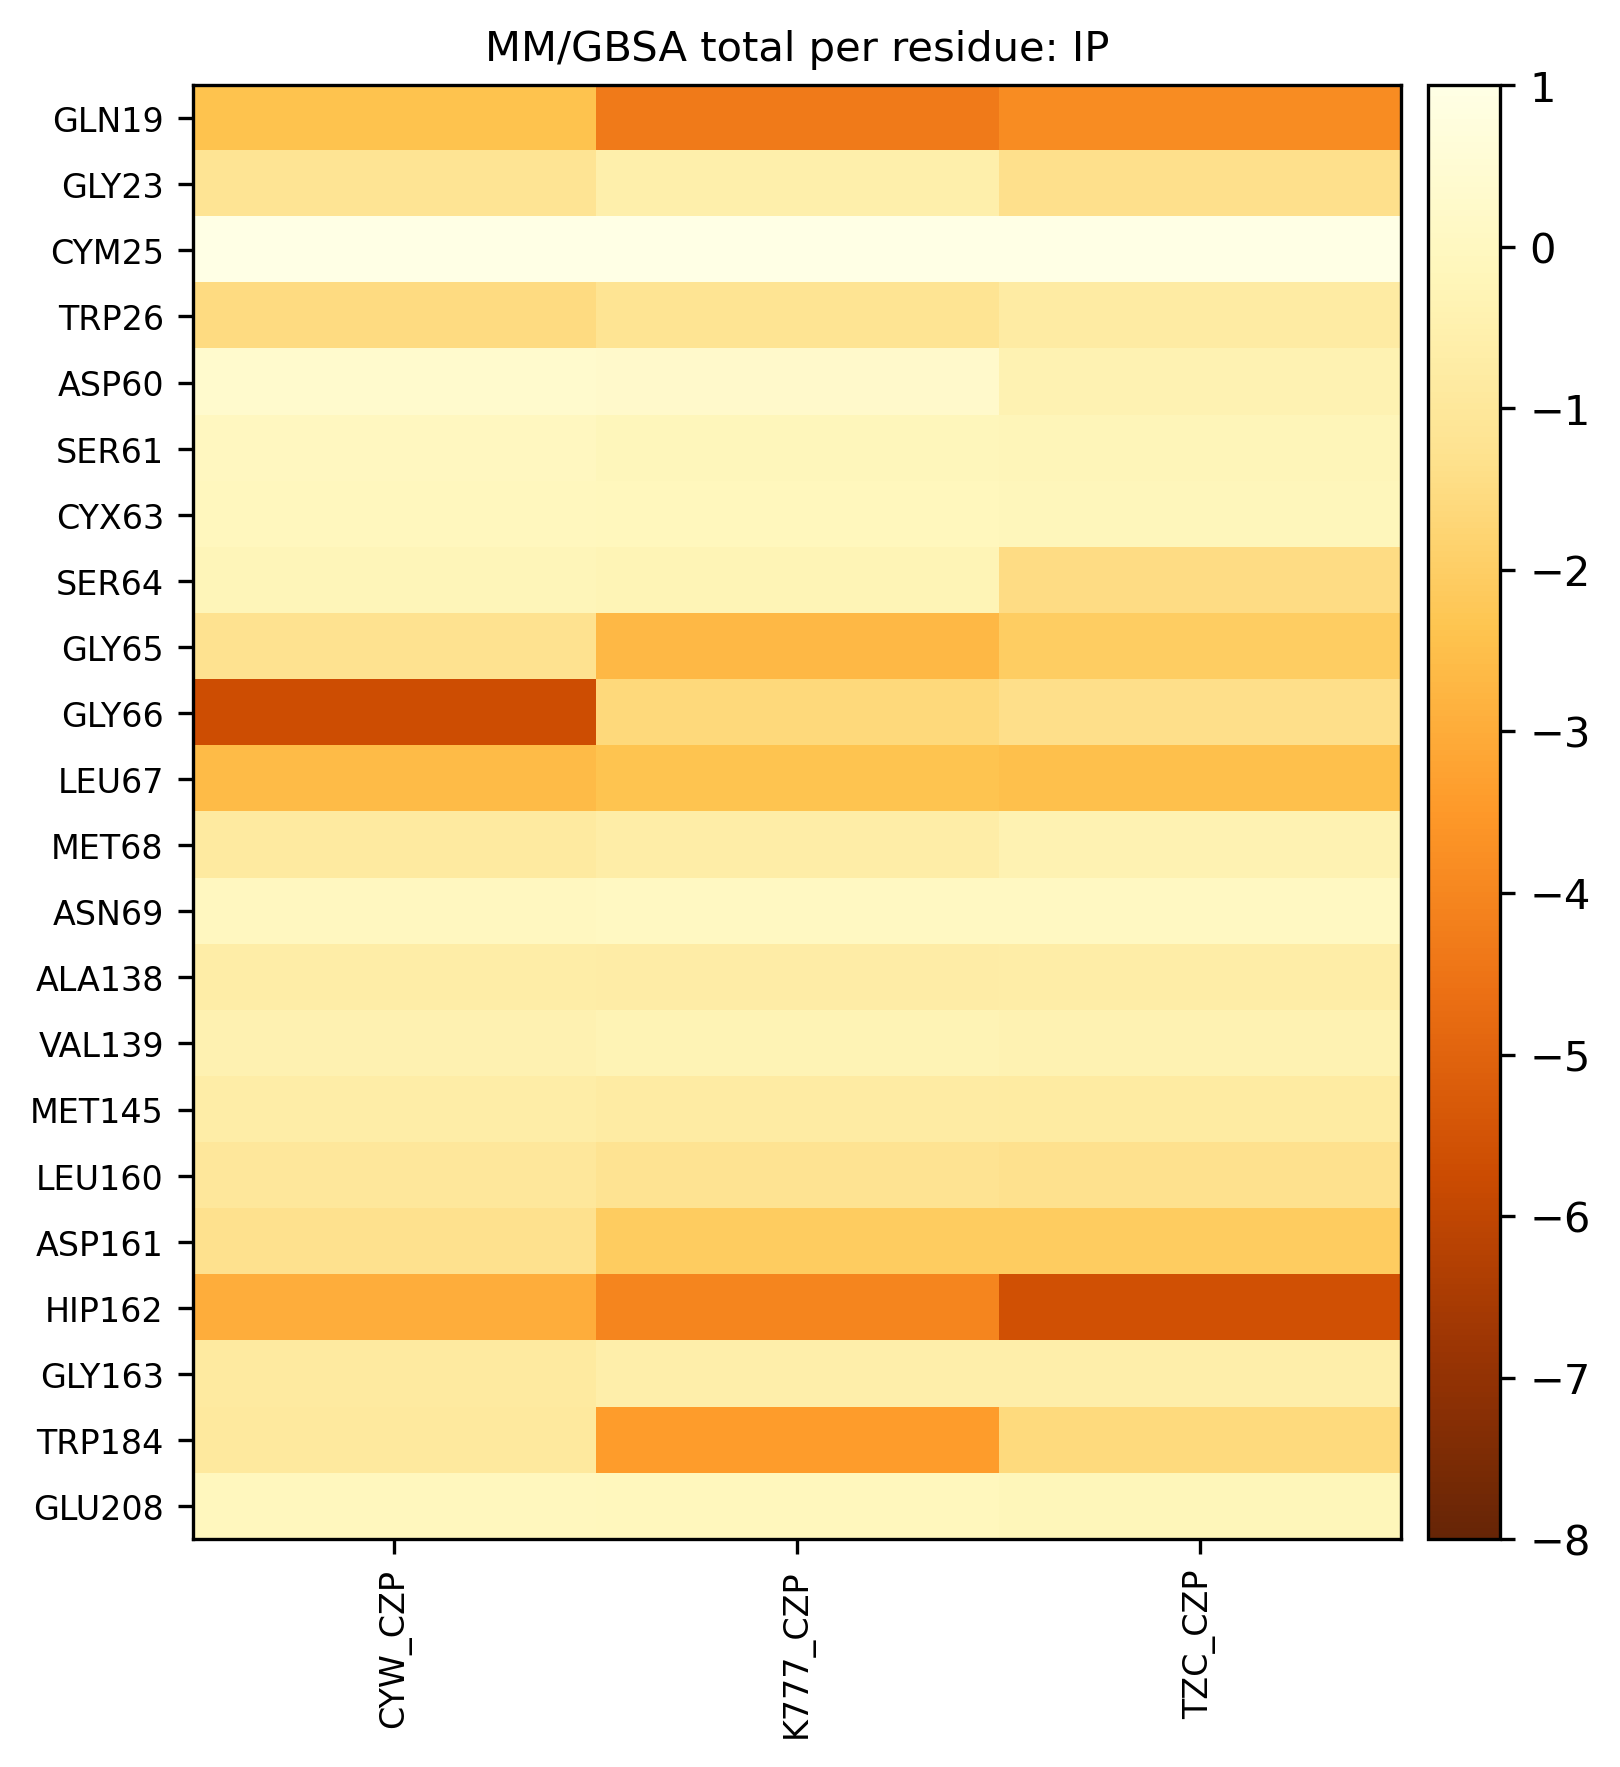
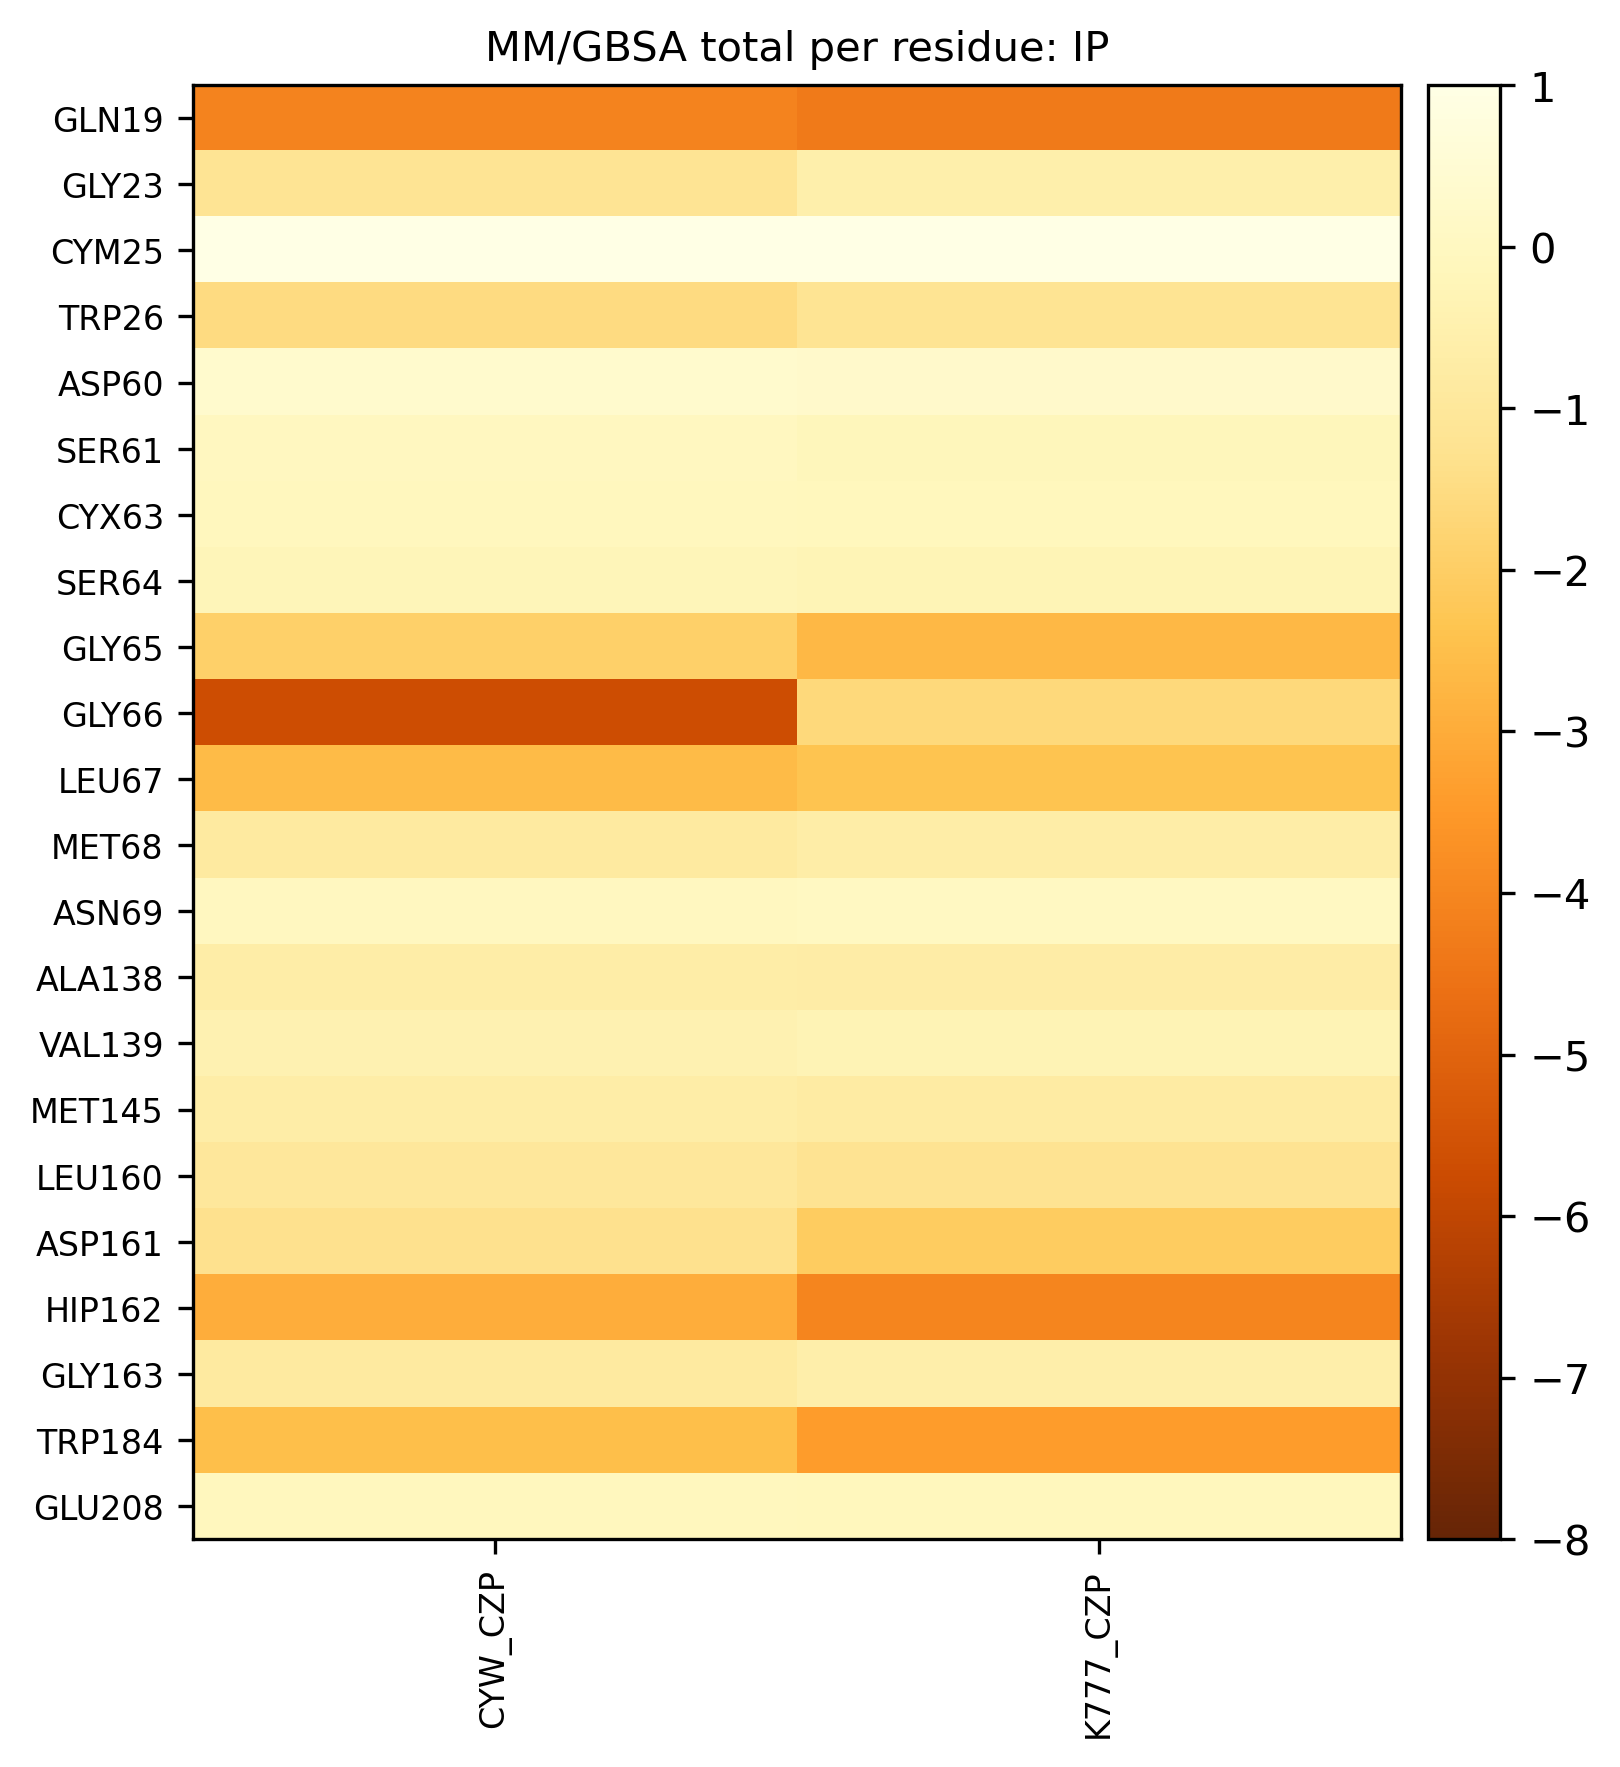
Updated chemspace

diff --git a/docs/examples/LA_Workshop/exploring_chemical_space.md b/docs/examples/LA_Workshop/exploring_chemical_space.md
@@ -788,14 +788,13 @@ sqlite3 -header -table docking/docking_assays/assay_7/assay_7.db \
 | JXDRXFUSYAZPDG-SGGLPICOSA-O_1  | -7.29       | -49.5987        | -6.45         | -52.0911          | -0.84               | 2.49            |
 </details>
 
-Upon inspection of the results, we will focus on the three top-scoring ligands according to their docking scores, as they exhibit the most promising binding affinities toward CZP.
+Upon inspection of the results, we will focus on the two top-scoring ligands according to their docking scores, as they exhibit the most promising binding affinities toward CZP.
 
 <div style={{ fontSize: '90%' }}>
 | **sub_pose**                    | **CZP_ds** | **CZP_d_g_tot** | **hCatL_ds** | **hCatL_d_g_tot** | **diff_dock_score** | **diff_d_g_tot** |
 |---------------------------------|------------:|----------------:|--------------:|------------------:|--------------------:|----------------|
 | CUFNDGFOXHNKKU-MGUYBSQASA-O_1  | -7.24       | -51.6476        | -5.85         | -39.9543          | -1.39               | -11.69          |
 | CYWLRULGWUKHND-QDRCWIAMSA-O_1  | -8.09       | -34.9057        | -6.73         | -29.0774          | -1.36               | -5.83           |
-| TZCGFRFEIJJRGN-VKFROBJISA-N_1  | -7.44       | -49.0613        | -6.20         | -39.6637          | -1.24               | -9.40           |
 | K777  | -5.42       | -50.2336        | -5.17         | -43.6419          | -0.25               | -6.59           |
 </div>
 
@@ -804,8 +803,6 @@ Upon inspection of the results, we will focus on the three top-scoring ligands a
 In the first case, the compound **CUFNDGFOXHNKKU-MGUYBSQASA-O** stands out due to its large affinity gap between CZP and hCatL, both in docking score and MMGBSA; the latter exceeding even the 6.6 kcal.mol<sup>-1</sup> difference observed for K777.
 
 However, upon visual inspection, we identified a critical issue: this compound was incorrectly generated during the in silico synthesis. 
-
-#################### FIGURE 2D ####################
 
 ---
 <figure>
@@ -846,53 +843,20 @@ Nevertheless, visual inspection suggests this is likely the ideal outcome:
 <div style={{display: 'flex', justifyContent: 'space-around', alignItems: 'center', gap: '20px'}}>
   <figure style={{textAlign: 'center', flex: 1}}>
     <img src="/TidyScreen_v2_docs_new/img/CYWLRULGWUKHND-QDRCWIAMSA-O-CZP.png" alt="CZP fingerprint" width="285"/>
-    <figcaption><b>CYWLRULGWUKHND-QDRCWIAMSA-O_1 bound to CZP</b></figcaption>
+    <figcaption><b>CYWLRULGWUKHND-QDRCWIAMSA-O bound to CZP</b></figcaption>
   </figure>
   <figure style={{textAlign: 'center', flex: 1}}>
     <img src="/TidyScreen_v2_docs_new/img/CYWLRULGWUKHND-QDRCWIAMSA-O-CatL.png" alt="hCatL fingerprint" width="450"/>
-    <figcaption><b>CYWLRULGWUKHND-QDRCWIAMSA-O_1 bound to hCatL</b></figcaption>
+    <figcaption><b>CYWLRULGWUKHND-QDRCWIAMSA-O bound to hCatL</b></figcaption>
   </figure>
 </div>
-
-
-
-3. **TZCGFRFEIJJRGN-VKFROBJISA-N**
-
-In this case, all indicators are favorable: both the docking score and MMGBSA ΔG values are improved for CZP relative to hCatL, and the absolute ΔG values are comparable to those obtained for K777.
-Visual inspection further supports this observation: the compound adopts bioactive-like poses in both targets, properly aligned for potential covalent inhibition.
-
----
-<figure>
-  <p align="center">
-  <img src="/TidyScreen_v2_docs_new/img/TZCGFRFEIJJRGN-VKFROBJISA-N.png" alt="Description of image" width="300"/>
-  <figcaption>Chemical structure of candidate 'TZCGFRFEIJJRGN-VKFROBJISA-N'. </figcaption>
-  </p>
-</figure>
----
-
-
-<div style={{display: 'flex', justifyContent: 'space-around', alignItems: 'center', gap: '20px'}}>
-  <figure style={{textAlign: 'center', flex: 1}}>
-    <img src="/TidyScreen_v2_docs_new/img/TZCGFRFEIJJRGN-VKFROBJISA-N-CZP.png" alt="CZP fingerprint" width="400"/>
-    <figcaption><b>TZCGFRFEIJJRGN-VKFROBJISA-N_1 bound to CZP</b></figcaption>
-  </figure>
-  <figure style={{textAlign: 'center', flex: 1}}>
-    <img src="/TidyScreen_v2_docs_new/img/TZCGFRFEIJJRGN-VKFROBJISA-N-CatL.png" alt="hCatL fingerprint" width="400"/>
-    <figcaption><b>TZCGFRFEIJJRGN-VKFROBJISA-N_1 bound to hCatL</b></figcaption>
-  </figure>
-</div>
-
-
-While this may suggest moderate selectivity between CZP and hCatL, it also indicates a favorable binding profile that could translate into reduced off-target toxicity; particularly when compared to K777, as preliminarily estimated by Ersilia’s toxicity predictor. 
 
 ## 🧩 5.6- Summary of the Chemical Space Exploration
 
 Taken together, this small-scale benchmark exemplifies the diversity of outcomes that can emerge from rational in silico design workflows.
-Among the top-ranked ligands, we identified three representative cases:
+Among the top-ranked ligands, we identified two representative cases:
 
-- a **synthetic artefact** (*CUFNDGFOXHNKKU-MGUYBSQASA-O*), which highlights the need for **rigorous validation** of virtual reaction schemes and filters before large-scale screening;
-
-- a **balanced binder** (*TZCGFRFEIJJRGN-VKFROBJISA-N*), displaying **comparable affinities** for both targets but potentially improved safety relative to K777; and
+- a **synthetic artefact** (*CUFNDGFOXHNKKU-MGUYBSQASA-O*), which highlights the need for **rigorous validation** of virtual reaction schemes and filters before large-scale screening; and
 
 - a **selective inhibitor candidate** (*CYWLRULGWUKHND-QDRCWIAMSA-O*), favoring CZP over hCatL and reproducing a bioactive-like orientation.
 
@@ -928,15 +892,6 @@ sqlite3 docking/docking_assays/assay_8/assay_8.db \
  FROM mmgbsa_fingerprints 
  WHERE sub_pose = 'CYWLRULGWUKHND-QDRCWIAMSA-O_1';"  # Candidate bound to hCatL
 
-sqlite3 docking/docking_assays/assay_7/assay_7.db \
-"SELECT writefile('fp_TZCGFRFEIJJRGN-VKFROBJISA-N_1-CZP.csv', mmgbsa_csv_file) 
- FROM mmgbsa_fingerprints 
- WHERE sub_pose = 'TZCGFRFEIJJRGN-VKFROBJISA-N_1';"  # Candidate bound to CZP
-
-sqlite3 docking/docking_assays/assay_8/assay_8.db \
-"SELECT writefile('fp_TZCGFRFEIJJRGN-VKFROBJISA-N_1-hCatL.csv', mmgbsa_csv_file) 
- FROM mmgbsa_fingerprints 
- WHERE sub_pose = 'TZCGFRFEIJJRGN-VKFROBJISA-N_1';"  # Candidate bound to hCatL
 ```
 These CSV files encode per-residue contributions (vdW, electrostatics, solvation, etc.), enabling:
 * automated filtering of poses that reproduce key binding interactions ("hotspots"),
@@ -958,8 +913,7 @@ In contrast, the compound *CYWLRULGWUKHND-QDRCWIAMSA-O* shows a marked differenc
 * Gln19 (CZP) / Gln20 (hCatL), both residues belong to the oxyanion hole, essential for catalytic stabilization.
 * HIP162 (CZP) / HIP164 (hCatL), the histidine partner of Cys25/Cys26 forming the catalytic dyad.
 
-Had we applied an interaction-based filter requiring the satisfaction of these two key contacts, the analysis would have automatically identified *CYWLRULGWUKHND-QDRCWIAMSA-O* as a CZP-selective binder, while *TZCGFRFEIJJRGN-VKFROBJISA-N* would emerge as bioactive in both targets.
-
+Had we applied an interaction-based filter requiring the satisfaction of these two key contacts, the analysis would have automatically identified *CYWLRULGWUKHND-QDRCWIAMSA-O* as a CZP-selective binder.
 
 </details>
 
